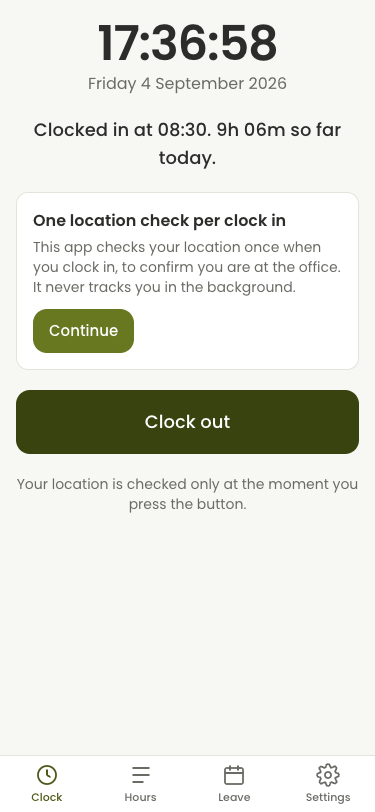
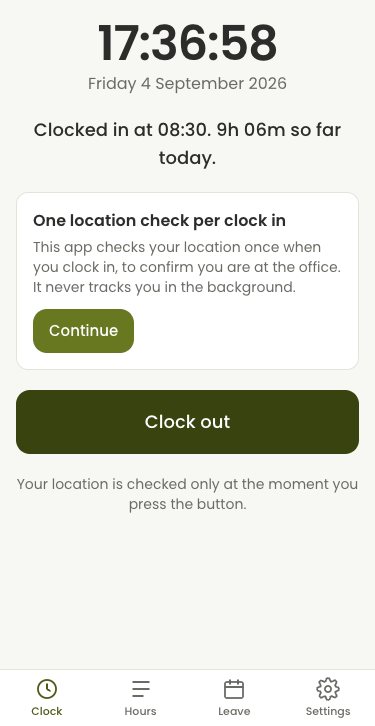
feat: phone device frame for the attendance screenshot
Dark bezel with side buttons, a status bar with the island, and the app
screen stitched so the tab bar sits at the bottom without the dead stretch
from the full-page capture. Everything inside scales with the frame width
via container-query units.

diff --git a/components/products/AppShot.tsx b/components/products/AppShot.tsx
@@ -28,14 +28,50 @@ export function DashboardShot({ src, sizes = '(min-width: 1024px) 820px, 100vw',
   )
 }
 
-/** Phone screen in a rounded device frame; height-driven, 375:812. */
-export function PhoneShot({ src, sizes = '260px', priority = false, className }: ShotProps) {
+/** Phone in a device frame: dark bezel, side buttons, status bar with the
+ *  island, then the app screen (375 x 726, tab bar at the bottom). Width or
+ *  height driven via className; everything inside scales with it (cqw). */
+export function PhoneShot({ src, sizes = '280px', priority = false, className }: ShotProps) {
   return (
     <div
-      className={cn('relative h-full overflow-hidden rounded-[1.6rem] border border-border-strong bg-card', className)}
-      style={{ aspectRatio: '375 / 812' }}
+      className={cn('relative aspect-[387/782] bg-[#1A1816] p-[1.6%]', className)}
+      style={{ borderRadius: '12% / 5.9%', containerType: 'inline-size' }}
     >
-      <Image src={src} alt="" fill sizes={sizes} priority={priority} className="object-cover object-top" />
+      {/* side buttons */}
+      <span aria-hidden="true" className="absolute -left-[1.1%] top-[15%] h-[3.2%] w-[1.1%] rounded-l-[2px] bg-[#1A1816]" />
+      <span aria-hidden="true" className="absolute -left-[1.1%] top-[20.5%] h-[5.5%] w-[1.1%] rounded-l-[2px] bg-[#1A1816]" />
+      <span aria-hidden="true" className="absolute -left-[1.1%] top-[27.5%] h-[5.5%] w-[1.1%] rounded-l-[2px] bg-[#1A1816]" />
+      <span aria-hidden="true" className="absolute -right-[1.1%] top-[22%] h-[8.5%] w-[1.1%] rounded-r-[2px] bg-[#1A1816]" />
+
+      <div className="relative flex h-full w-full flex-col overflow-hidden bg-[#F5F6EF]" style={{ borderRadius: '10.8% / 5.3%' }}>
+        {/* status bar */}
+        <div className="flex h-[5.7%] shrink-0 items-center justify-between px-[7%] text-[#1F1F1F]" style={{ fontSize: '3.6cqw' }}>
+          <span className="font-body font-medium tabular-nums">17:36</span>
+          <span className="flex items-center" style={{ gap: '1.6cqw' }}>
+            <span className="flex items-end" style={{ gap: '0.6cqw' }}>
+              <span className="block bg-[#1F1F1F]" style={{ width: '0.9cqw', height: '1.4cqw', borderRadius: '0.3cqw' }} />
+              <span className="block bg-[#1F1F1F]" style={{ width: '0.9cqw', height: '2cqw', borderRadius: '0.3cqw' }} />
+              <span className="block bg-[#1F1F1F]" style={{ width: '0.9cqw', height: '2.6cqw', borderRadius: '0.3cqw' }} />
+              <span className="block bg-[#1F1F1F]" style={{ width: '0.9cqw', height: '3.2cqw', borderRadius: '0.3cqw' }} />
+            </span>
+            <span
+              className="relative block border border-[#1F1F1F]"
+              style={{ width: '6.4cqw', height: '3.1cqw', borderRadius: '0.9cqw', padding: '0.5cqw' }}
+            >
+              <span className="block h-full w-[78%] bg-[#1F1F1F]" style={{ borderRadius: '0.4cqw' }} />
+            </span>
+          </span>
+        </div>
+        {/* island */}
+        <span
+          aria-hidden="true"
+          className="absolute left-1/2 top-[1.5%] h-[3.3%] w-[27%] -translate-x-1/2 rounded-full bg-[#1A1816]"
+        />
+        {/* screen */}
+        <div className="relative min-h-0 flex-1">
+          <Image src={src} alt="" fill sizes={sizes} priority={priority} className="object-cover object-top" />
+        </div>
+      </div>
     </div>
   )
 }

diff --git a/components/home/HeroCollage.tsx b/components/home/HeroCollage.tsx
@@ -29,9 +29,7 @@ export default function HeroCollage() {
 
         {/* phone, overlapping the panel's lower-left corner */}
         <Reveal delay={0.4} y={28} className="absolute bottom-0 left-[-6%] w-[34%]">
-          <div className="rounded-[1.7rem] outline outline-[6px] outline-bg">
-            <PhoneShot src={shots.attendanceClock} priority className="w-full" />
-          </div>
+          <PhoneShot src={shots.attendanceClock} priority className="w-full outline outline-[6px] outline-bg" />
         </Reveal>
       </Magnetic>
     </div>
